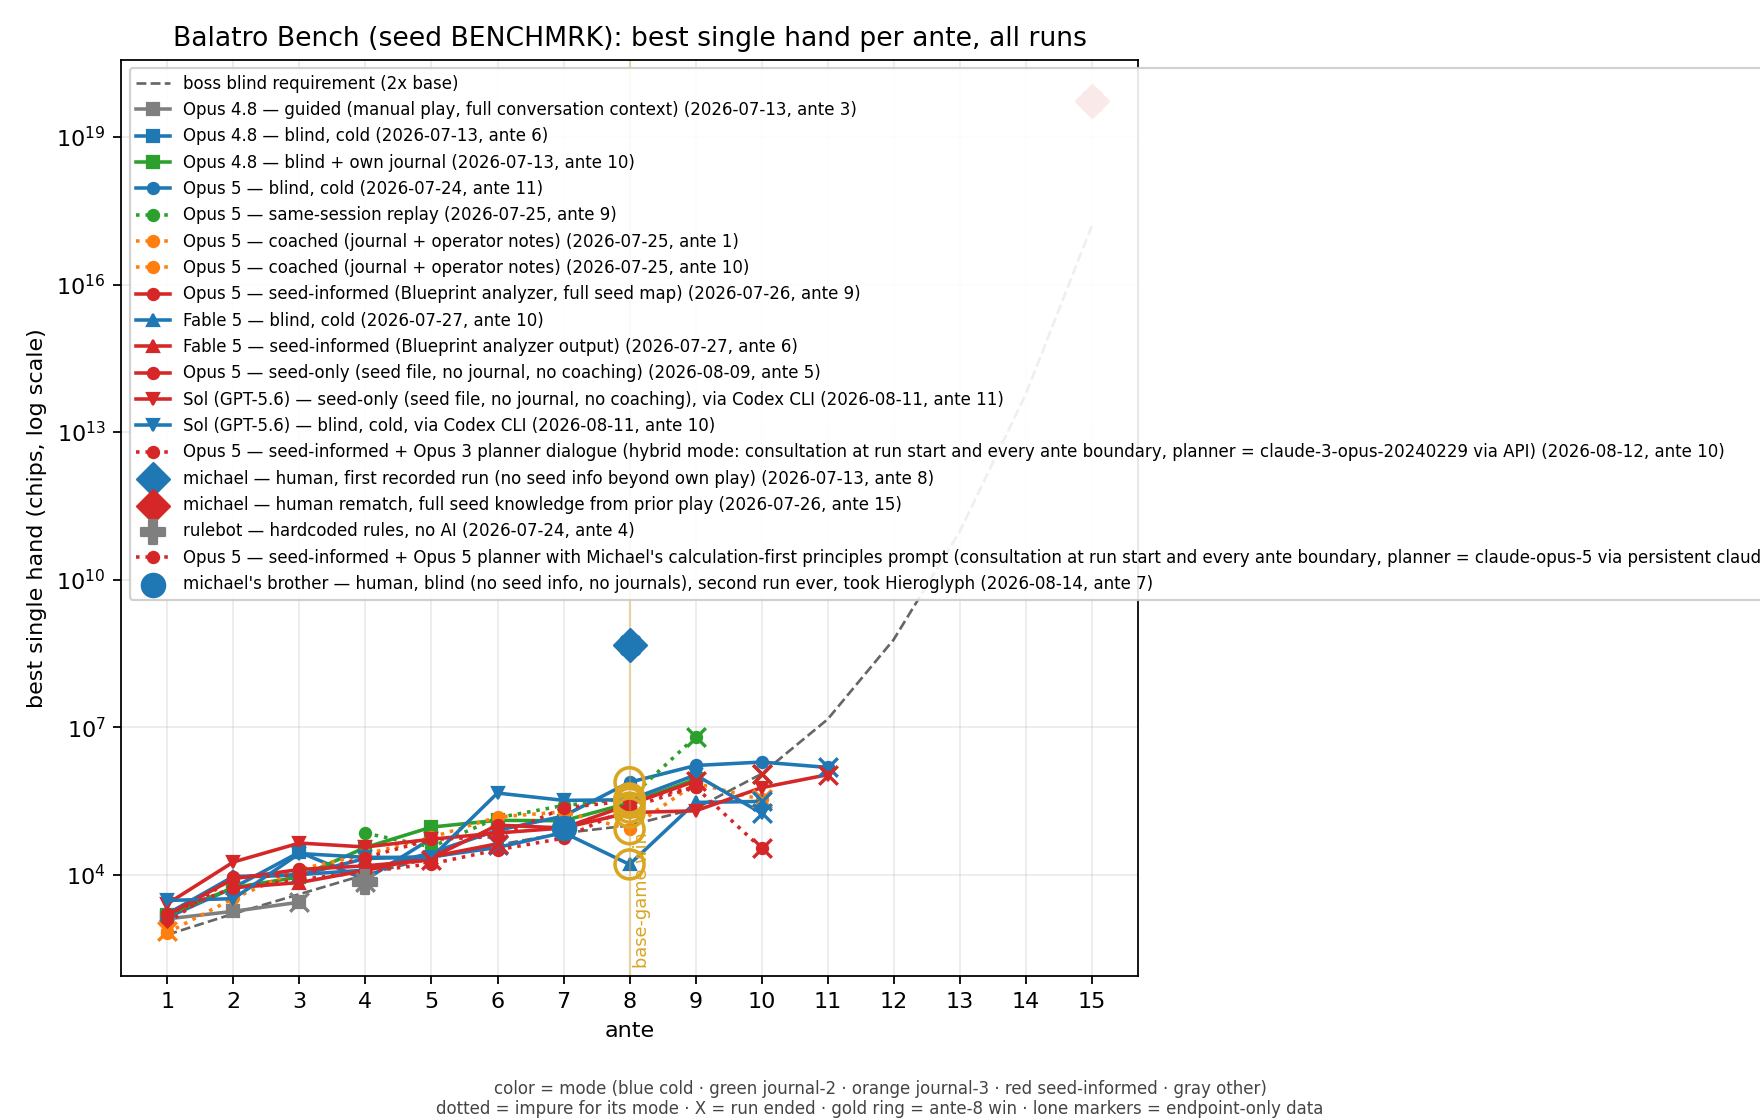
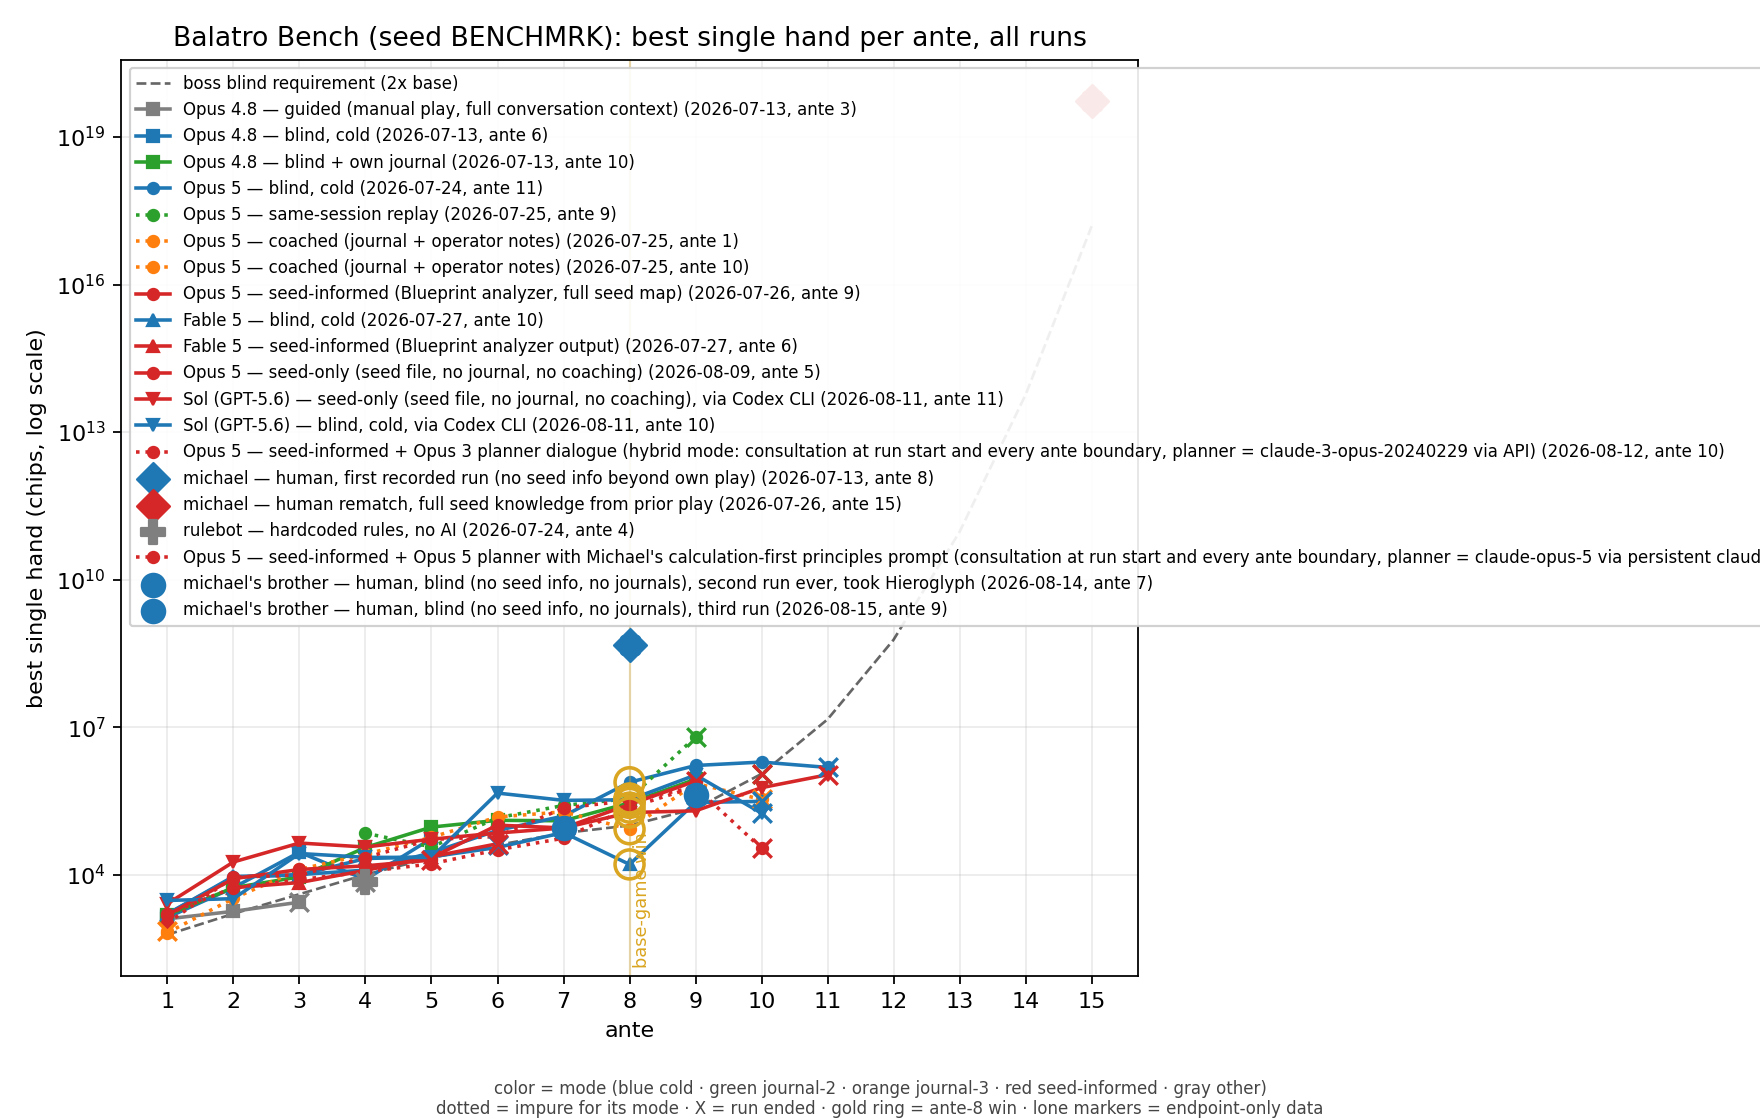
Add michael's brother run 3: ante 9, ~419k, won base game, died to an input error on the ante 9 boss

Changed region(s): [[0.0625, 0.5312, 1.0, 0.5625], [0.375, 0.6875, 0.4062, 0.7188]]

diff --git a/bench-results.md b/bench-results.md
@@ -21,10 +21,11 @@ Per-ante progression graphs and the four-mode data live in [analysis/](analysis/
 | 9 | Fable 5 (blind, cold) | 8 won, endless to 10 | Yes | 308,227 | 2026-07-27 | [journal](runs/fable5-journal.md). Cold, first try, under the new arena-directory protocol (audited: 0 memory recalls, 0 contaminating reads, 0 cheat calls). Two-pair/full-house engine: Duo X2 + Throwback X2.5 + Polychrome Golden Joker + Constellation, steels held, stone cards stuffed into plays. The win itself was the bench's first insurance save: scored 60,585/100,000 into Cerulean Bell and survived only because Mr. Bones consumed itself. Died to The Flint at ante 10 (670,497/1,120,000; chips/mult halved with no Bones left). First run journaled per-ante by requirement, so it is fully graphable. A prior attempt the same day was VOIDED for auto-memory contamination; see PROTOCOL.md. |
 | 10 | Opus 5 (same-session replay) | 8 won, endless to 9 | Yes | 6,322,981 | 2026-07-25 | [journal](runs/opus5-journal.md) (RUN 2 section). Second attempt in the SAME session as run 1 (full context, not journal-only; game closed before a screenshot could be taken, score from journal). Rebuilt with Brainstorm+Driver's License+Duo+Trio+Throwback for an X40.5 full-house stack: 6,322,981 at ante 9 Small, the biggest AI hand on the board. Died at The Window (186,957/220,000) after four pairless draws; its post-mortem blames never thinning the deck, spending discards before banking a clear, and letting Throwback freeze. Higher ceiling than run 1, shorter run. |
 | 11 | Opus 5 (seed-informed) | 8 won, endless to 9 | Yes | 799,398 | 2026-07-26 | [journal](runs/opus5-journal.md) (RUN 5 section). Full seed intelligence permitted: cloned the Blueprint seed analyzer, generated the complete BENCHMRK item/boss/voucher/tag map for antes 1-16, and validated it live (shop queues, vouchers, bosses, tags reliable; pack contents provably NOT predictable). Routed a Hanging Chad[via Hex]/Glass retrigger build off the map, skipped Hieroglyph deliberately. Won ante 8 (re-rolled Cerulean Bell's forced card with 1-card plays), then died at The Fish, ante 9 boss, 4,937/220,000: trips on the deck's rarest rank, no pair partner, zero discards left. Its own verdict: the 5e19 bar is all retrigger count, and the run died two antes before the exponent could start growing. No screenshot (instance closed before capture). |
-| 12 | michael (human, first run) | 8 | No | 469,141,998 | 2026-07-13 | Blueprint + Baron engine pushing for naneinf; bought Hieroglyph (Round 27 at Ante 8/8 = replayed antes). Died to the ante-8 finisher Amber Acorn (44,807/100,000) when the joker shuffle broke Blueprint's adjacency to Baron. Correction 2026-07-25: originally mis-recorded as a base-game win + endless; the game-over screenshot shows the Amber Acorn loss was at Ante 8/8. |
-| 13 | michael's brother (human, run 2) | 7 | No | 87,870 | 2026-08-14 | Second run ever, played slowly and unassisted: no seed intelligence, no journals, vanilla mod set on his own machine, Red Deck / White Stake. Took Hieroglyph (the fourth entrant to do so), which replayed an ante and shifted the boss schedule off BENCHMRK's reference order, so his ante-7 boss was The Head rather than the seed's The Ox. Built a mono-Heart flush engine: roughly 25 Hearts in a 54-card deck including 10 Kings, 6 Queens and 5 Jacks, with Shoot the Moon (+13 Mult per Queen held in hand) as the multiplier. Most played hand Flush (10). Died to The Head at ante 7 (44,680/70,000), which debuffs every Heart. The instructive part: his best hand of the run, 87,870, was larger than the entire 70,000 requirement, so the blind was a one-hand clear for his build in any other matchup. The suit lock killed both halves of the engine at once, because the Flush needed Hearts and all six Queens feeding Shoot the Moon were Hearts, and debuffed cards do not satisfy joker conditions. $78 was still unspent at the game over. In his own words: "Bro I genuinely got so unlucky. I had 25+ hearts out of my deck of 54 with (all hearts) 10 kings, 6 queens, 5 jacks. One of my jokers was +13 mult for every queen in your hand. I could've easily gotten 300-500k. But I didn't look ahead, and all hearts were blocked by the boss, so I was completely cooked - I didn't realize that there was a disadvantage to going all on a single suit" He is right in his follow-up and wrong in his opening: the boss and its effect are displayed at blind select from the start of the ante, so The Head was visible through two blinds and two shops before he had to face it. Four bosses debuff a whole suit (The Head/Hearts, The Club/Clubs, The Goad/Spades, The Window/Diamonds), so a mono-suit deck draws dead against a predictable slice of the boss pool. |
-| 14 | Opus 4.8 (blind, cold) | 6 | No | 54,412 | 2026-07-13 | [journal](runs/opus-run1-journal.md), [screenshot](runs/opus-run1-gameover.png). Fully blind: no strategy, no seed info, no prior journals (audited: 0 contaminating reads). Ace engine; died on the ante 6 Big Blind (21,518/30,000) when Aces stopped showing and non-Ace fallback hands were too weak. |
-| 15 | Fable 5 (seed-informed) | 6 | No | 42,432 | 2026-07-27 | [journal](runs/fable5-journal.md) (RUN 2 section). Same session as its cold run, given the Blueprint analyzer's full per-ante map. WORSE than its own cold run (ante 10): died to The House at ante 6, 37,621/40,000 — 2,379 short after two pairless final draws, having spent all discards by hand 2. Its key discovery: editing the deck scrambles predicted draw orders, so blinds must be played live even with the map (shop/pack/tag predictions stayed exact, e.g. a predicted 20,904 hand scored exactly 20,904). A clean natural experiment in seed intel being no substitute for discard discipline. |
-| 16 | Opus 5 (seed-only) | 5 | No | 19,800 | 2026-08-09 | [screenshot](runs/opus5-seedonly-gameover.png), [journal](arena/opus5-seedonly/journal.md). The cleanest mode-4 cell: fresh session, NO journal, NO coaching, only the seed analysis file — and the first run under the technical file sandbox (deny rules + arena isolation, not just instructions). Died to The Club at ante 5 (16,919/22,000): drew natural quads but had funneled every planet into Full House so Four of a Kind sat at level 1, and had pre-burned all 4 discards to switch on Mystic Summit before the boss. Also re-derived the joker-order rule mid-run from a 10,340-vs-14,080 discrepancy. Its key finding: the seed file's shop queue is only approximate — owned jokers get substituted out, shifting later entries ("do not spend money rerolling toward a specific deep entry"). This run reported the sell-in-pack harness bug, now fixed. Striking negative result: pure seed intel scored WORSE than both cold runs (Opus 5 ante 11, Fable ante 10). |
-| 17 | rulebot v1 (no AI) | 4 | No | 7,020 | 2026-07-24 | [screenshot](runs/rulebot-run1-gameover.png), [code](rulebot/rulebot.py). Hardcoded rules only, zero LLM: exhaustive 1-5 card hand search with a live-state score estimator, pace-based play/discard, priority shopping. Full run in 171 seconds. Died on The Wheel (3,542/10,000) with $42 unspent and no xMult jokers. Note: mod purity is now verified per run; an earlier same-day attempt was voided after AllinJest/Multiplayer leaked into the pool (launcher blacklist was stale; now generated dynamically). |
-| 18 | Opus 4.8 (guided) | 3 | No | 2,749 | 2026-07-13 | [journal](bench-journal-2026-07-13-opus48.md). Manual play with full conversation context (not a blind run). Died on The Tooth boss, 2937/4000. Over-relied on Baron; whiffed the Acrobat final hand. |
+| 12 | michael's brother (human, run 3) | 8 won, endless to 9 | Yes | ~419,000 | 2026-08-15 | Third run, blind and unassisted as before. First win by a human other than the operator, and a two-ante jump over his own run 2. Two Pair mainline (most played hand) with an Egg + Swashbuckler economy engine, Hit the Road, The Trio, and a foil Driver's License. Died on the ante 9 boss. Cause, in the operator's account: he discarded the hand instead of playing it, then failed to draw the cards he needed on the replacement. Not a build failure and not variance in the usual sense, an input error at the one moment the run could not absorb one. Build note worth recording: The Trio pays X3 only on a hand containing a Three of a Kind, and a Two Pair does not contain one, so on his most played hand that joker was dark. His scoring peaks would have come from the Full Houses, which contain both. No screenshot or journal: the run was closed before capture, so the numbers are as reported and the best hand is approximate. Recorded on the operator's report under the same standing consent as run 2. |
+| 13 | michael (human, first run) | 8 | No | 469,141,998 | 2026-07-13 | Blueprint + Baron engine pushing for naneinf; bought Hieroglyph (Round 27 at Ante 8/8 = replayed antes). Died to the ante-8 finisher Amber Acorn (44,807/100,000) when the joker shuffle broke Blueprint's adjacency to Baron. Correction 2026-07-25: originally mis-recorded as a base-game win + endless; the game-over screenshot shows the Amber Acorn loss was at Ante 8/8. |
+| 14 | michael's brother (human, run 2) | 7 | No | 87,870 | 2026-08-14 | Second run ever, played slowly and unassisted: no seed intelligence, no journals, vanilla mod set on his own machine, Red Deck / White Stake. Took Hieroglyph (the fourth entrant to do so), which replayed an ante and shifted the boss schedule off BENCHMRK's reference order, so his ante-7 boss was The Head rather than the seed's The Ox. Built a mono-Heart flush engine: roughly 25 Hearts in a 54-card deck including 10 Kings, 6 Queens and 5 Jacks, with Shoot the Moon (+13 Mult per Queen held in hand) as the multiplier. Most played hand Flush (10). Died to The Head at ante 7 (44,680/70,000), which debuffs every Heart. The instructive part: his best hand of the run, 87,870, was larger than the entire 70,000 requirement, so the blind was a one-hand clear for his build in any other matchup. The suit lock killed both halves of the engine at once, because the Flush needed Hearts and all six Queens feeding Shoot the Moon were Hearts, and debuffed cards do not satisfy joker conditions. $78 was still unspent at the game over. In his own words: "Bro I genuinely got so unlucky. I had 25+ hearts out of my deck of 54 with (all hearts) 10 kings, 6 queens, 5 jacks. One of my jokers was +13 mult for every queen in your hand. I could've easily gotten 300-500k. But I didn't look ahead, and all hearts were blocked by the boss, so I was completely cooked - I didn't realize that there was a disadvantage to going all on a single suit" He is right in his follow-up and wrong in his opening: the boss and its effect are displayed at blind select from the start of the ante, so The Head was visible through two blinds and two shops before he had to face it. Four bosses debuff a whole suit (The Head/Hearts, The Club/Clubs, The Goad/Spades, The Window/Diamonds), so a mono-suit deck draws dead against a predictable slice of the boss pool. |
+| 15 | Opus 4.8 (blind, cold) | 6 | No | 54,412 | 2026-07-13 | [journal](runs/opus-run1-journal.md), [screenshot](runs/opus-run1-gameover.png). Fully blind: no strategy, no seed info, no prior journals (audited: 0 contaminating reads). Ace engine; died on the ante 6 Big Blind (21,518/30,000) when Aces stopped showing and non-Ace fallback hands were too weak. |
+| 16 | Fable 5 (seed-informed) | 6 | No | 42,432 | 2026-07-27 | [journal](runs/fable5-journal.md) (RUN 2 section). Same session as its cold run, given the Blueprint analyzer's full per-ante map. WORSE than its own cold run (ante 10): died to The House at ante 6, 37,621/40,000 — 2,379 short after two pairless final draws, having spent all discards by hand 2. Its key discovery: editing the deck scrambles predicted draw orders, so blinds must be played live even with the map (shop/pack/tag predictions stayed exact, e.g. a predicted 20,904 hand scored exactly 20,904). A clean natural experiment in seed intel being no substitute for discard discipline. |
+| 17 | Opus 5 (seed-only) | 5 | No | 19,800 | 2026-08-09 | [screenshot](runs/opus5-seedonly-gameover.png), [journal](arena/opus5-seedonly/journal.md). The cleanest mode-4 cell: fresh session, NO journal, NO coaching, only the seed analysis file — and the first run under the technical file sandbox (deny rules + arena isolation, not just instructions). Died to The Club at ante 5 (16,919/22,000): drew natural quads but had funneled every planet into Full House so Four of a Kind sat at level 1, and had pre-burned all 4 discards to switch on Mystic Summit before the boss. Also re-derived the joker-order rule mid-run from a 10,340-vs-14,080 discrepancy. Its key finding: the seed file's shop queue is only approximate — owned jokers get substituted out, shifting later entries ("do not spend money rerolling toward a specific deep entry"). This run reported the sell-in-pack harness bug, now fixed. Striking negative result: pure seed intel scored WORSE than both cold runs (Opus 5 ante 11, Fable ante 10). |
+| 18 | rulebot v1 (no AI) | 4 | No | 7,020 | 2026-07-24 | [screenshot](runs/rulebot-run1-gameover.png), [code](rulebot/rulebot.py). Hardcoded rules only, zero LLM: exhaustive 1-5 card hand search with a live-state score estimator, pace-based play/discard, priority shopping. Full run in 171 seconds. Died on The Wheel (3,542/10,000) with $42 unspent and no xMult jokers. Note: mod purity is now verified per run; an earlier same-day attempt was voided after AllinJest/Multiplayer leaked into the pool (launcher blacklist was stale; now generated dynamically). |
+| 19 | Opus 4.8 (guided) | 3 | No | 2,749 | 2026-07-13 | [journal](bench-journal-2026-07-13-opus48.md). Manual play with full conversation context (not a blind run). Died on The Tooth boss, 2937/4000. Over-relied on Baron; whiffed the Acrobat final hand. |

diff --git a/README.md b/README.md
@@ -35,7 +35,7 @@ Historical runs that mixed in anything else (operator coaching, same-session
 context) are on the leaderboard but flagged impure; the exact mapping and
 purity flags are machine-readable in `analysis/per-ante-data.json`.
 
-## Results so far (2026-08-15, 18 runs)
+## Results so far (2026-08-15, 19 runs)
 
 ![Best single hand per ante, all runs](analysis/graph-all-runs.png)
 
